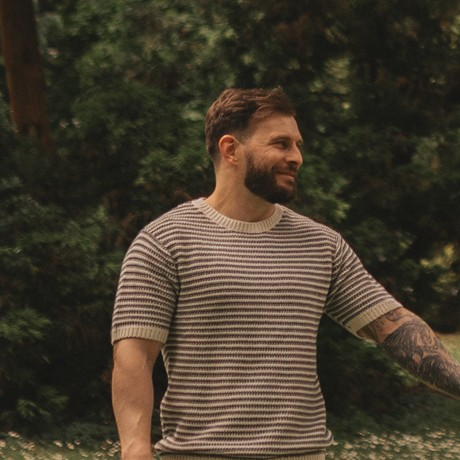
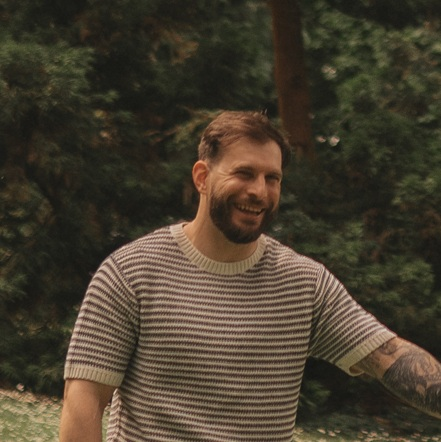
css first idea
got loads of css yesterday added to my portfolio, it was fun overall. while adding css I realize somethings in html were uncalled or too complicated to goi ahead with what I had in mind. Got a reset.css to reset UL and A with no decorations in my nav menu or along in my social media links, also reset all images to 100% whatsover and html margin, padding, borders and outline to 0 or none. Im still not happy with my profile picture so it might change. In the style css I used transitions, hovers and scroll-behavior to give the user a better experience. Along the website display Flex and its properties were widely used for styling as I don't think Grid would match as nicely for a Portfolio.

diff --git a/index.html b/index.html
@@ -4,6 +4,8 @@
     <meta charset="UTF-8">
     <meta name="viewport" content="width=device-width, initial-scale=1.0">
     <title>Tiago de Gregori Portfolio</title>
+    
+    <link rel="stylesheet" href="./src/css/reset.css">
     <link rel="stylesheet" href="./src/css/style.css">
     <link rel="stylesheet" href="https://cdnjs.cloudflare.com/ajax/libs/font-awesome/6.5.0/css/all.min.css">
     <link rel="preconnect" href="https://fonts.googleapis.com">
@@ -12,31 +14,29 @@
 
 </head>
 <body>
-    <header class="head">
-        <div class="header-container">       
+    <header class="head">        
             <a href="#">
-                <h1 class="logo">TG</h1>
+                <h1 class="logo">TdG</h1>
             </a>
-
+        
             <nav class="menu">
                 <ul>
                     <li><a href="#projects">project's</a></li>
                     <li><a href="mycv.html">my cv</a></li>
-                    <li>CLICK TO INVERT COLOURS</li>
+                    <!-- <li>CLICK TO INVERT COLOURS</li> -->
                 </ul>
             </nav>
-        </div>
     </header>
     
     <section class="home">
         <div class="info">
-            <h2>Hey ya, I'm Tiago de Gregori</h2>
+            <h2>Hey ya! I'm Tiago de Gregori</h2>
             <p>I’m a programmer in development who loves building things and experimenting with technology.</p>
             <p>I like taking on new challenges, sharing ideas with the dev community, and creating automations that make life easier.</p>
 
-            <ul>
+            <ul class="social-media">
                 <li>
-                    <a href="https://github.com/tagrgr" target="_blank" title="Go to this LinkedIn link">
+                    <a href="https://www.linkedin.com/in/tagrgr/" target="_blank" title="Go to this LinkedIn link">
                         <i class="fab fa-linkedin-in"></i>
                     </a>
                 </li>
@@ -50,6 +50,11 @@
                         <i class="fab fa-whatsapp"></i>
                     </a>
                 </li>
+                <!-- <li>
+                    <a href="https://wa.me/353899853638" target="_blank" title="Contact by WhatsApp">
+                        <i class="fab fa-email"></i>
+                    </a>
+                </li> -->
                 <li>
                     <a href="https://www.instagram.com/tiagogregori" target="_blank" title="Go to this Instagram link">
                         <i class="fab fa-instagram"></i>
@@ -73,7 +78,7 @@
     <section class="projects" id="projects">
         <h3 class="title">My own Projects</h3>
         <div class="container-pro">
-            <div class="active project">
+            <div class="project">
                 <a href="https://github.com/tagrgr/mobile-and-web-weather-application-React-Native-" target="_blank">
                     <img src="./src/images/wheather-app.png" alt="React Native Weather App">
                     <h4>React Native Weather App</h4>
@@ -83,7 +88,7 @@
                     </div>
                 </a>
             </div>
-            <div class="active project">
+            <div class="project">
                 <a href="https://github.com/tagrgr/monster-mayhem-hexagons-board-game" target="_blank">
                     <img src="./src/images/monster-mayhem-hexagons.png" alt="Monster Mayhem Hexagons Board Game">
                     <h4>Monster Mayhem Hexagons Board Game</h4>
@@ -93,7 +98,7 @@
                     </div>
                 </a>
             </div>
-            <div class="active project">
+            <div class="project">
                 <a href="https://github.com/tagrgr/monster-mayhem-multiplayer-board-game-withServer" target="_blank">
                     <img src="./src/images/monster-mayhem-backend.png" alt="Monster Mayhem Backend Board Game">
                     <h4>Monster Mayhem Backend Board Game</h4>
@@ -103,7 +108,7 @@
                     </div>
                 </a>
             </div>
-            <div class="active project">
+            <div class="project">
                 <a href="https://github.com/tagrgr/library-management-system-" target="_blank">
                     <img src="./src/images/library-java.png" alt="Java Library Management System">
                     <h4>Java Library Management System</h4>
@@ -113,7 +118,7 @@
                     </div>
                 </a>
             </div>
-            <div class="active project">
+            <div class="project">
                 <a href="https://github.com/tagrgr/animal-management-system" target="_blank">
                     <img src="./src/images/zoo-java.png" alt="Java Dublin Zoo Management System">
                     <h4>Java Dublin Zoo Management System</h4>
@@ -123,7 +128,7 @@
                     </div>
                 </a>
             </div>
-            <div class="active project">
+            <div class="project">
                 <a href="https://github.com/tagrgr/pythonMoodify2" target="_blank">
                     <img src="./src/images/moodify-python.png" alt="Python Spotify Weather Playlist">
                     <h4>Python Spotify Weather Playlist</h4>
@@ -134,8 +139,6 @@
                 </a>
             </div>
         </div>
-
-        <button class="show-more">Show more</button>
     </section>
 
     <footer class="foot" id="foot">
@@ -149,7 +152,7 @@
                 <li><a href="">python certificate</a></li>
             </ul>
         </nav>
-        <div class="social-icons">
+        <div class="social-foot">
             <a href="https://linkedin.com/in/tagrgr" target="_blank"><i class="fab fa-linkedin"></i></a>
             <a href="https://github.com/tagrgr" target="_blank"><i class="fab fa-github"></i></a>
             <a href="https://wa.me/353899853638" target="_blank"><i class="fab fa-whatsapp"></i></a>

diff --git a/src/css/style.css b/src/css/style.css
@@ -1,0 +1,178 @@
+html {
+    color: #fff;
+    scroll-behavior: smooth;
+}
+
+body {
+    /* background-color: #282828; */
+    font-family: "Poppins", sans-serif;
+    margin: 0 auto;
+    max-width: 1120px;
+    background: linear-gradient(150deg, #000, #9e00ff);
+}
+
+.head {
+    /* background-color: blue; */
+    display: flex;
+    justify-content: space-between;
+    align-items: center;
+    padding: 30px 15px;
+}
+
+.head .logo {
+    /* background-color: orange; */
+    width: 75px;
+    height: 65px;
+    border-radius: 50%;
+    border: 3px solid #fff;
+    text-align: center;
+    line-height: 57px;
+    font-family: "Raleway", sans-serif;
+    transition: 0.2s;
+}
+
+.head a:hover .logo {
+    color: #9443d8;
+    border: 2px solid #9443d8;
+}
+
+.head .menu ul {
+    /* background-color: red; */
+    display: flex;
+}
+
+.head .menu li a {
+    font-size: 20px;
+    text-transform: uppercase;
+    padding: 10px 20px;
+    transition: 0.2s;
+}
+
+.head .menu li a:hover {
+    background-color: #9443d8;
+    color: #fff;
+    border-radius: 50px;
+}
+
+.home {
+    /* background-color: green; */
+    display: flex;
+    min-height: calc(100vh - 125px);
+    justify-content: space-between;
+    align-items: center;
+    gap: 50px;
+}
+
+.home .info {
+    /* background-color: black; */
+    display: flex;
+    flex-direction: column;
+    gap: 15px;
+    letter-spacing: 2px;
+    padding: 0 15px;
+    max-width: 50%;
+}
+
+.home .info h2 {
+    font-family: "Raleway", sans-serif;
+    font-size: 45px;
+    margin-bottom: 20px;
+}
+
+.home .info p {
+    font-family: "Raleway", sans-serif;
+    font-size: 24px;
+    margin-bottom: 10px;
+}
+
+.home .info .social-media {
+    /* background-color: orange; */
+    display: flex;
+    gap: 20px;
+}
+
+.home .info .social-media a i {
+    border: 1px solid #fff;
+    border-radius: 50%;
+    width: 50px;
+    height: 50px;
+    padding: 10px;
+    text-align: center;
+    font-size: 28px;
+    transition: 0.3s;
+}
+
+.home .info .social-media a i:hover {
+    color: #9443d8;
+    border: 1px solid #9443d8;
+    transform: scale(1.1);
+}
+
+.home .container-pic .pic {
+    /* background-color: red; */
+    max-width: 450px;
+    border-radius: 50%;
+}
+
+.home .container-pic img {
+    width: 100%;
+    border-radius: 50%;
+}
+
+.projects {
+    /* background-color: purple; */
+    padding: 70px 0;
+}
+
+.projects .title {
+    text-align: center;
+    padding: 60px 0;
+    font-size: 45px;
+    font-weight: 500;
+    text-transform: uppercase;
+}
+
+.projects .container-pro {
+    /* background-color: yellow; */
+    display: flex;
+    gap: 20px;
+    flex-wrap: wrap;
+    margin-bottom: 20px;
+    justify-content: center;
+}
+
+.projects .project {
+    max-width: 260px;
+    max-height: 500px;
+    position: relative;
+}
+
+/* .projects .project img {
+    height: 100%;
+} */
+
+.projects .project h4 {
+    background-color: #040203;
+    width: 100%;
+    padding: 10px 0 10px 20px;
+    position: absolute;
+    bottom: 0;
+}
+
+.projects .project .project-info {
+    background-color: #040203;
+    position: absolute;
+    padding: 20px;
+    top: 0;
+    width: 100%;
+    height: 100%;
+    font-weight: 600;
+    opacity: 0;
+    transition: 0.3s;
+}
+
+.projects .container-pro .project:hover .project-info {
+    opacity: 0.7;
+    background-color: #000;
+}
+

diff --git a/src/css/reset.css b/src/css/reset.css
@@ -1,0 +1,20 @@
+* {
+    margin: 0;
+    padding: 0;
+    border: none;
+    box-sizing: border-box;
+    outline: none;
+}
+
+a {
+    text-decoration: none;
+    color: #fff;
+}
+
+ul {
+    list-style: none;
+}
+
+img {
+    max-width: 100%;
+}
